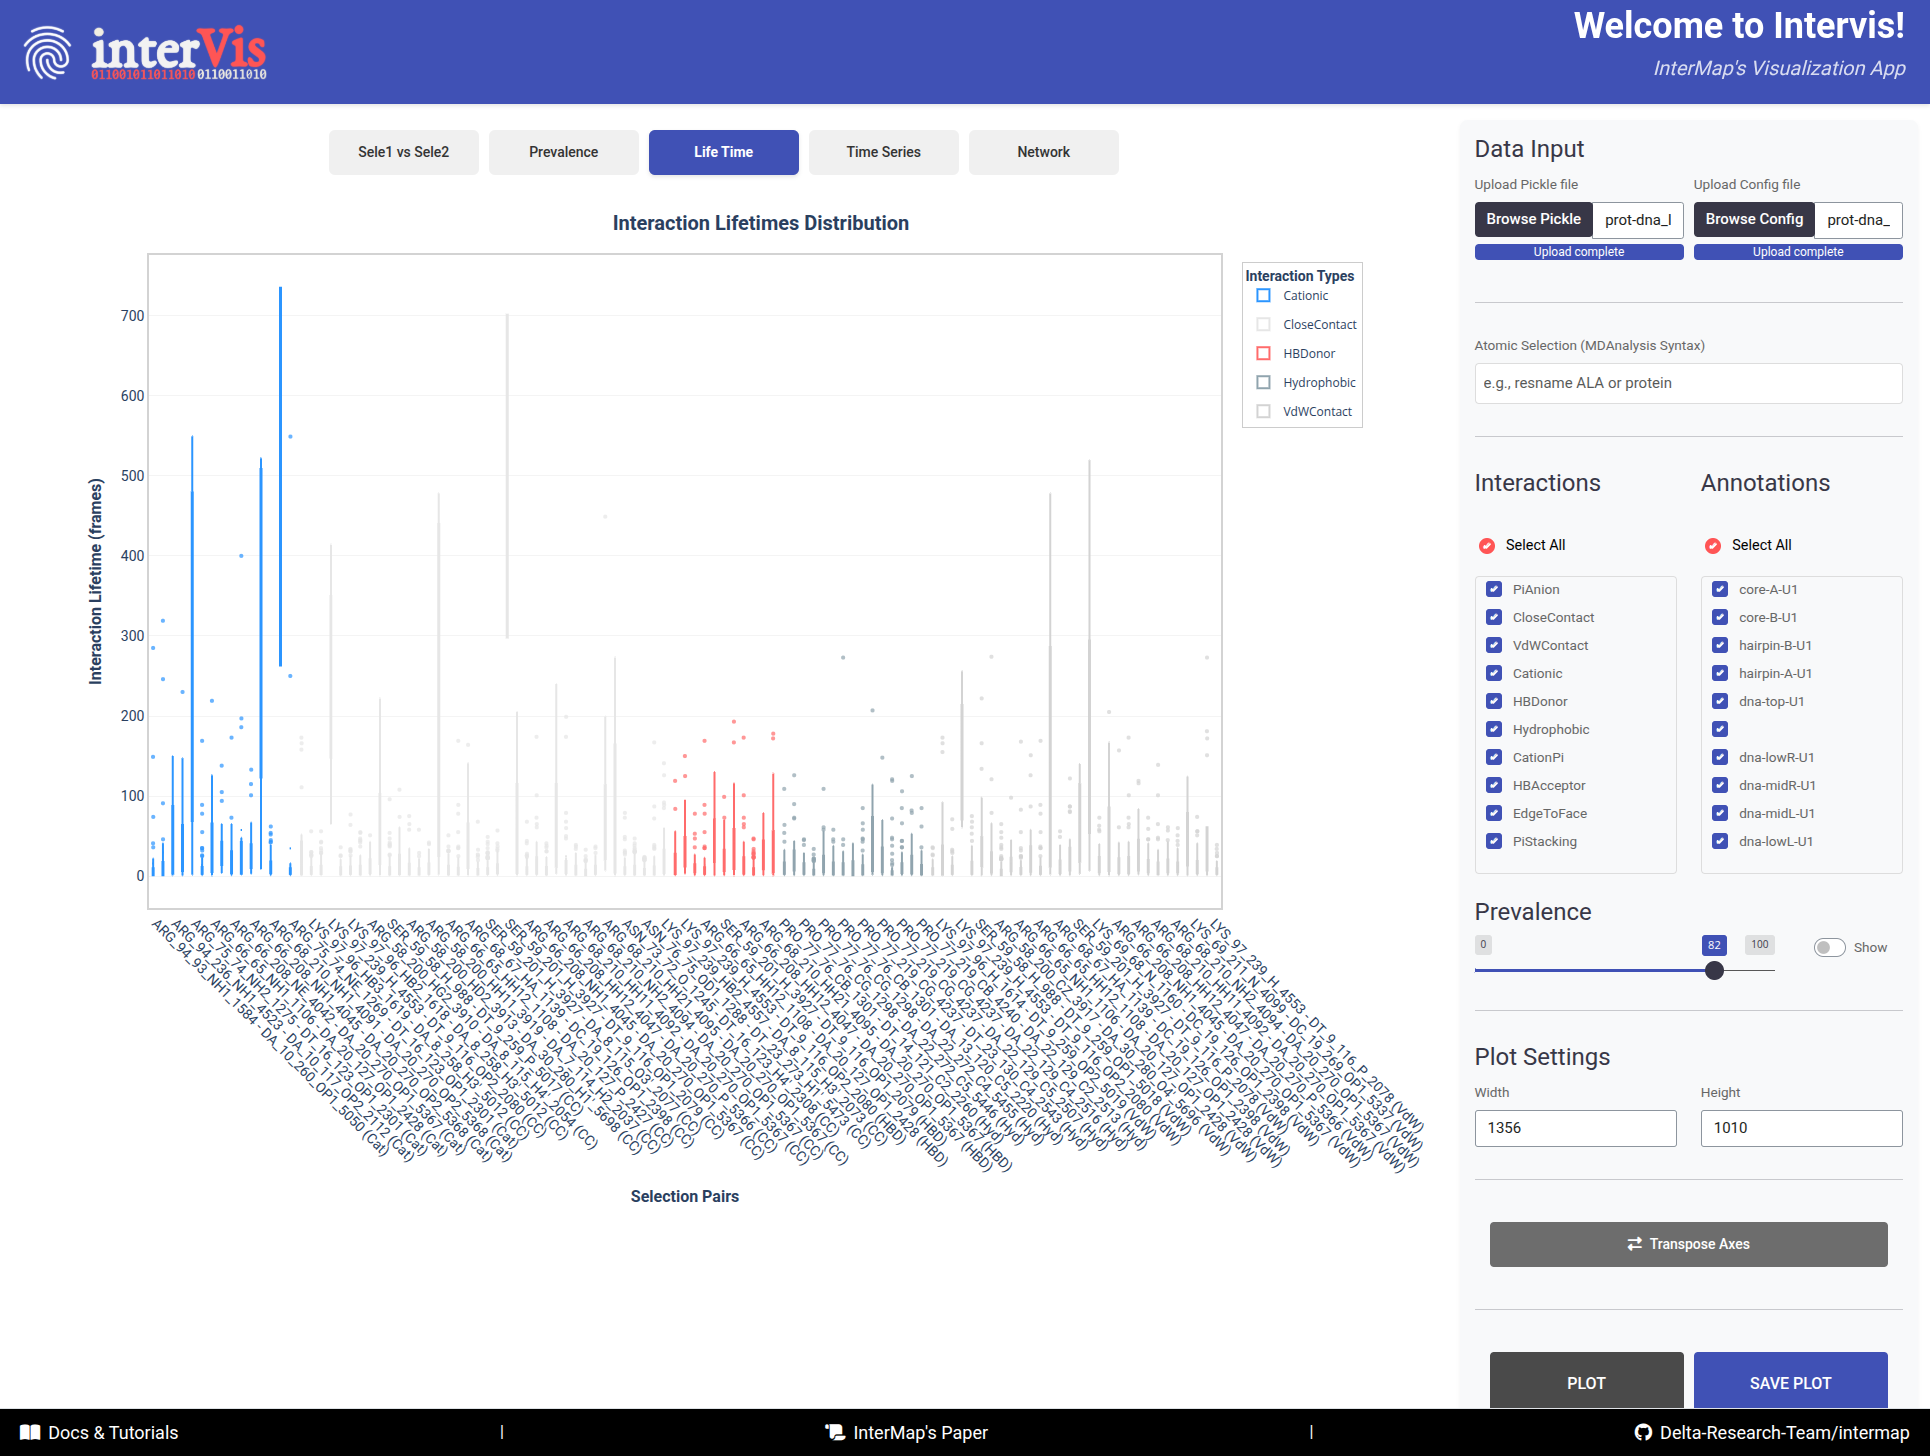
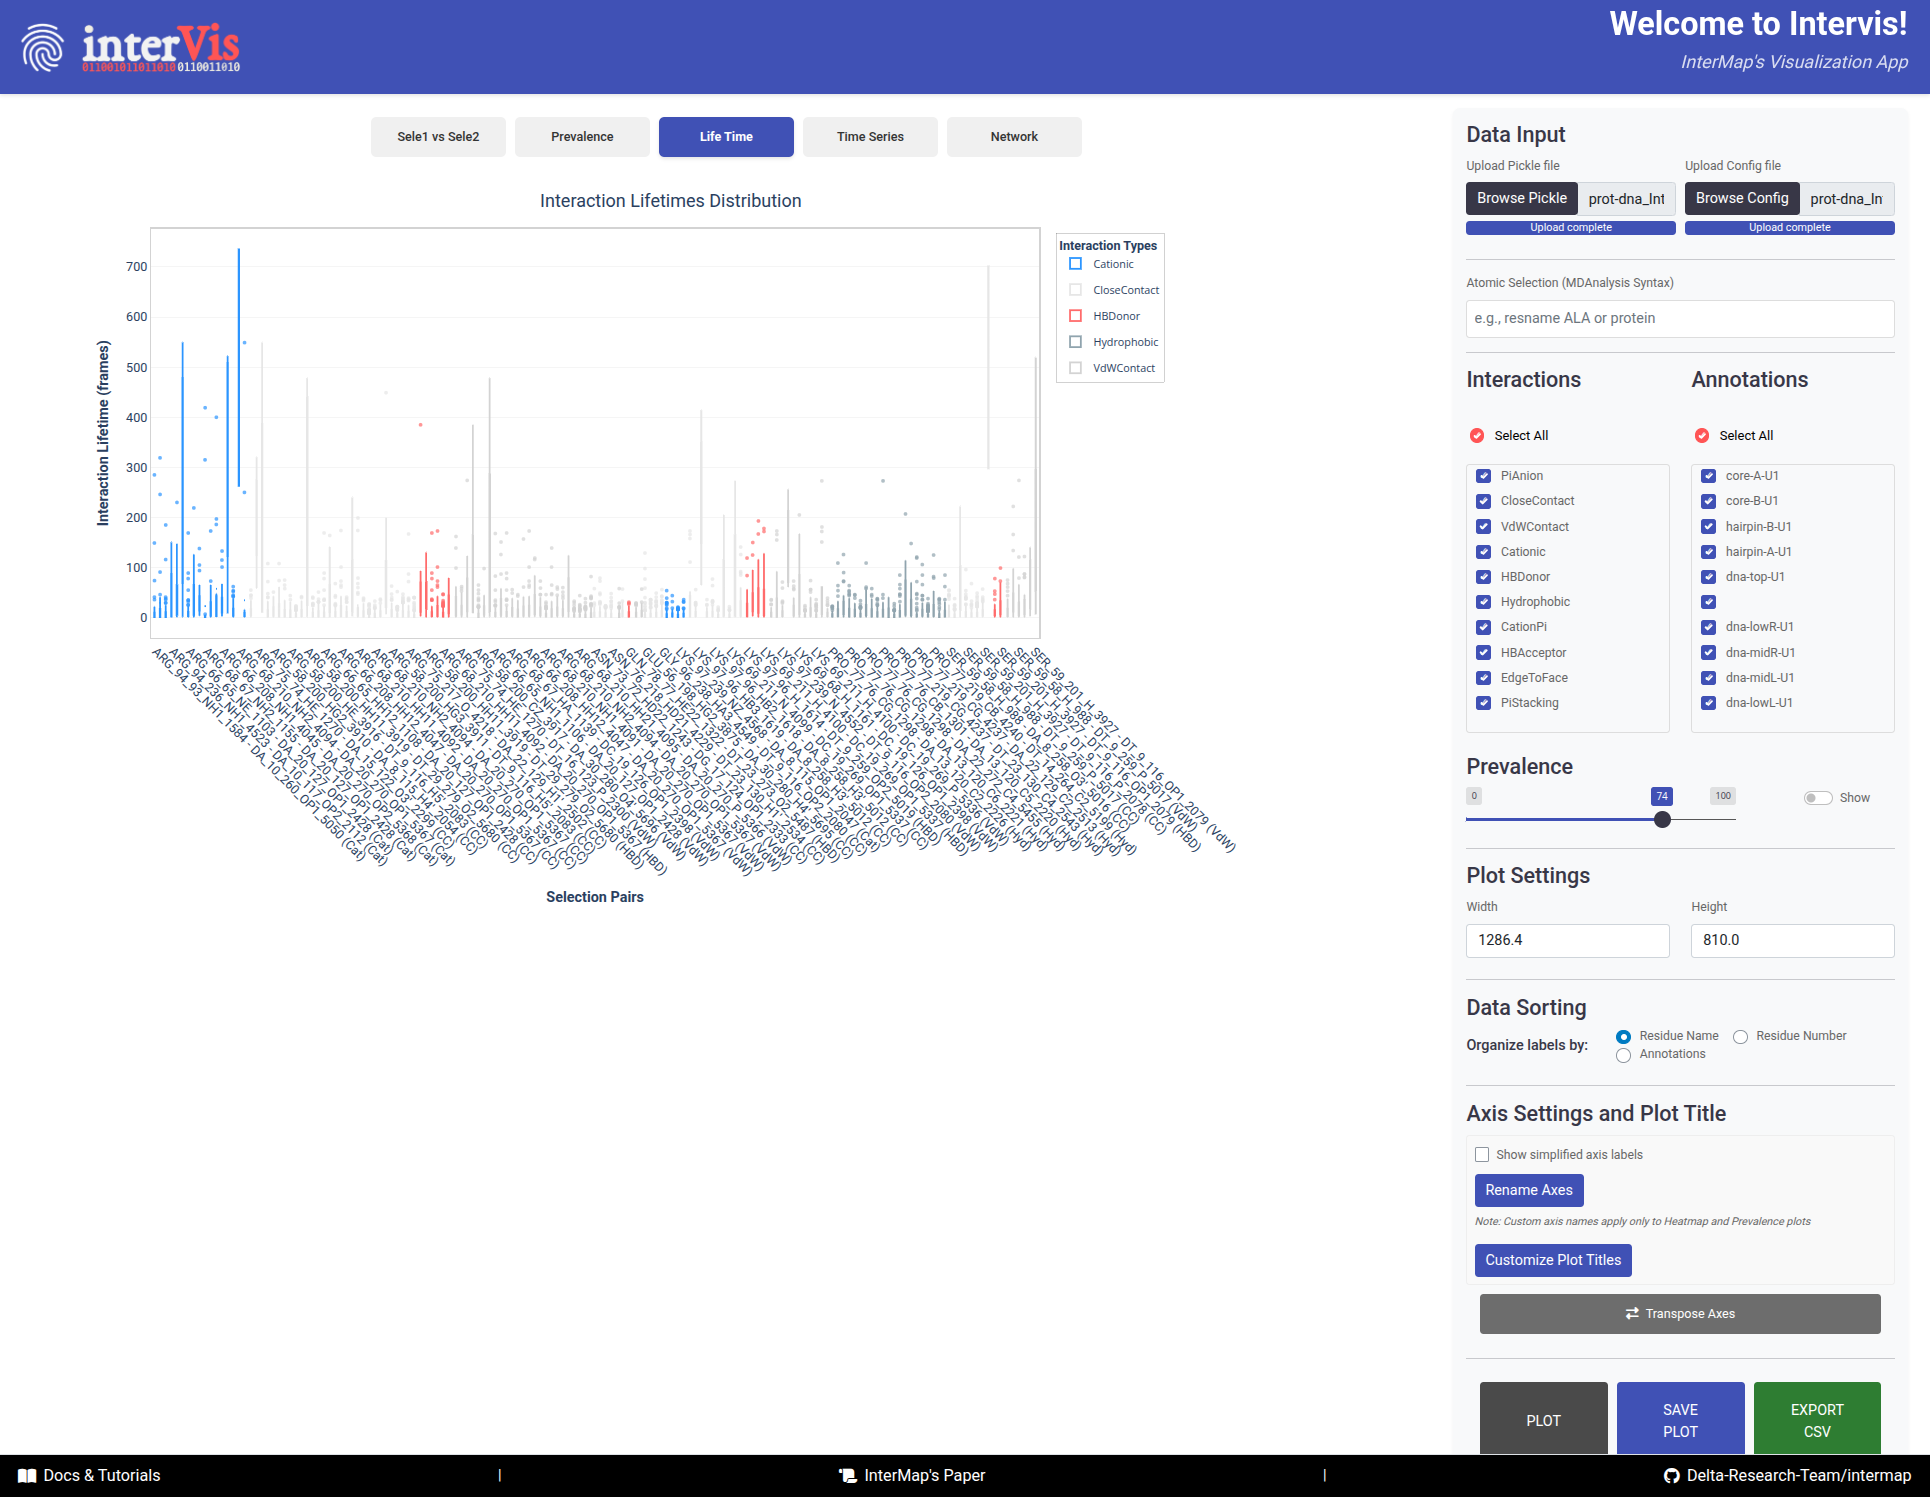
[WP] Fix images in documentation

Changed region(s): [[0.0, 0.0, 1.0, 0.989], [0.6218, 0.1854, 0.715, 0.3091], [0.5285, 0.1545, 0.6218, 0.2473]]

diff --git a/docs/intervis.md b/docs/intervis.md
@@ -1,4 +1,4 @@
-**InterMap** comes with a local, interactive Shiny application named **InterVis**, which allows users to explore the
+``InterMap`` comes with a local, interactive Shiny application named ``InterVis``, which allows users to explore the
 interactions computed by the tool. This user-friendly web interface simplifies the analysis and interpretation of
 molecular interaction data. No internet connection is required to run the app.
 
@@ -15,8 +15,8 @@ This will automatically launch the InterVis server and open your default web bro
 ![Image title](assets/global_panel.png){width="75%"}
 
 /// caption
-InterVis interface is composed of three main areas: the **Control Panel** (right side), the **Visualization Panel** (
-left side), and the **Footer** (bottom bar).
+InterVis interface is composed of three main areas: the ``Control Panel`` (right side), the ``Visualization Panel`` (
+left side), and the ``Footer`` (bottom bar).
 ///
 
 The InterVis interface consists of three main areas:
@@ -80,11 +80,71 @@ Once the files are uploaded, you can configure the visualizations that will rend
 
 ??? note "Prevalence Threshold"
 
-    When the files are loaded, InterVis automatically assigns a default prevalence threshold of **30%**. You can adjust this value to filter out interactions based on their prevalence (0–100%).
+    When the files are loaded, InterVis automatically assigns a default prevalence threshold of ``30%``. You can adjust this value to filter out interactions based on their prevalence (0–100%).
 
     - The ``Show`` option will allow you to show/hide numeric values on plots.
 
-## 4. Supported Visualizations
+
+## 4. Plot Settings and Customization
+
+InterVis provides several advanced configuration options to customize your visualizations:
+
+??? note "Plot Dimensions"
+
+    You can customize the size of your plots to fit your screen or presentation needs:
+    
+    - ``Width``: Set the plot width in pixels (default: automatically adjusted to your screen)
+    - ``Height``: Set the plot height in pixels (default: automatically adjusted to your screen)
+    
+    These settings apply to all visualization tabs and help optimize the viewing experience for different screen sizes or export requirements.
+
+??? note "Data Sorting"
+
+    Control how labels are organized in your visualizations through the ``Organize labels by`` option:
+    
+    - ``Residue Name``: Sort alphabetically by residue type (ALA, ARG, ASP, etc.)
+    - ``Residue Number``: Sort numerically by residue number
+    - ``Annotations``: Sort by custom annotations defined in your configuration file
+    
+    This feature helps you identify patterns more easily by organizing data in the most meaningful way for your analysis.
+
+??? note "Axis Settings and Plot Titles"
+
+    Customize axis labels and plot titles for publication-ready figures:
+
+    ### Simplify Axis Labels
+    
+    - Enable this checkbox to show simplified axis labels without detailed atom/residue information
+    - Useful for creating cleaner visualizations for presentations
+    
+    ### Rename Axes
+    
+    1. Click the ``Rename Axes`` button to reveal custom axis input fields
+    2. Enter your desired names for X-Axis and Y-Axis titles
+    3. Click ``Apply`` to update the axes
+    
+    !!! info "Scope"
+        Custom axis names apply only to Heatmap and Prevalence plots
+    
+    ### Customize Plot Titles
+    
+    1. Click the ``Customize Plot Titles`` button to reveal title customization options
+    2. You can customize titles for all five visualization types:
+        - ``Heatmap Plot`` (default: "Interaction Heatmap")
+        - ``Prevalence Plot`` (default: "Interaction Prevalence Analysis")
+        - ``Lifetime Plot`` (default: "Interaction Lifetimes Distribution")
+        - ``Time Series Plot`` (default: "Interactions Over Time")
+        - ``Network Plot`` (default: "Interaction Network")
+    3. Enter your desired titles and click ``Apply``
+    
+    ### Transpose Axes
+    
+    - Click the ``Transpose Axes`` button to swap X and Y axes in the Heatmap view
+    - The button highlights when transpose is active
+    - Useful for alternate viewing perspectives or when one selection has many more elements than the other
+
+
+## 5. Supported Visualizations
 
 ??? note "**Sele1 vs Sele2**"
 
@@ -93,22 +153,19 @@ Once the files are uploaded, you can configure the visualizations that will rend
     ![Image title](assets/Tab_1.png){width="100%"}
 
     /// caption
-    The **Sele1 vs Sele2** tab provides an overview of all interaction pairs between two selections.
+    The ``Sele1 vs Sele2`` tab provides an overview of all interaction pairs between two selections.
     ///
 
-
-
-    **`Interpretation Guide:`**
-
-    - **X-axis**: Atoms/Residues of Selection 1 
+    - X-axis``: Atoms/Residues of Selection 1 
  
-    - **Y-axis**: Atoms/Residues of Selection 2
+    - ``Y-axis``: Atoms/Residues of Selection 2
 
-    - **Cells**
+    - ``Cells``
       - *Color:* Interaction type (following an interaction priority system — if multiple interactions occur, the most relevant is shown).
       - *Number:* Interaction prevalence (shown upon activation of the ``Show`` option adjacent to the ``Prevalence`` filter).
  
-    - **Hover**
+     **Hover**
+
       - *Sel1:* Atom/Residue of the first selection
       - *Note1:* Annotation corresponding to Sel 1
       - *Sel2:* Atom/Residue of the second selection
@@ -116,7 +173,7 @@ Once the files are uploaded, you can configure the visualizations that will rend
       - *Interaction:* Type of interaction
       - *Prevalence:* Percentage of frames with this interaction
 
-    - **Transpose Button** to swap X/Y axes — useful for alternate views
+    - ``Transpose Button`` to swap X/Y axes for alternate views
 
 ??? note "**Interactions Prevalence**"
 
@@ -125,17 +182,15 @@ Once the files are uploaded, you can configure the visualizations that will rend
     ![Image title](assets/Tab_2.png){width="100%"}
 
     /// caption
-    The **Prevalence** tab visualizes the prevalence of interactions as a bar chart, with Selection 1 in the top panel and Selection 2 in the bottom panel.
+    The ``Prevalence`` tab visualizes the prevalence of interactions as a bar chart, with Selection 1 in the top panel and Selection 2 in the bottom panel.
     ///
 
 
-    **`Interpretation Guide:`**
+    - ``X-axis``: Components from Selection 1/Selection 2
 
-    - **X-axis**: Components from Selection 1/Selection 2
+    - ``Y-axis``: Prevalence (%)
 
-    - **Y-axis**: Prevalence (%)
-
-    - **Bars**:
+    - ``Bars``:
         - *Color:* Interaction type
         - *Height:* Prevalence percentage
 
@@ -156,27 +211,24 @@ Once the files are uploaded, you can configure the visualizations that will rend
     The Life Time tab presents violin plots displaying the distribution of interaction lifetimes across the trajectory.
     ///
 
+    - ``X-axis``: Interaction pairs (Selection 1 – Selection 2)
 
-    **`Interpretation Guide:`**
+    - ``Y-axis``: Duration of interactions (in frames)
 
-    - **X-axis**: Interaction pairs (Selection 1 – Selection 2)
-
-    - **Y-axis**: Duration of interactions (in frames)
-
-    - **Violin Shape**: Distribution of durations
+    - ``Violin Shape``: Distribution of durations
         - Wider sections indicate more frequent durations
         - Narrower sections indicate less frequent durations
     
-    - **Width**: Relative frequency of interaction durations
+    - ``Width``: Relative frequency of interaction durations
 
-    - **Color**: Interaction type
+    - ``Color``: Interaction type
 
     - **Hover**:
-    - Pair: Selection 1 – Selection 2
-    - Interaction: Type of interaction
-    - Prevalence: Percentage of frames with this interaction
-    - Lifetime: Number of frames the interaction was present
-    - Frame Range: Start and end frames where the interaction was observed
+      - Pair: Selection 1 – Selection 2
+      - Interaction: Type of interaction
+      - Prevalence: Percentage of frames with this interaction
+      - Lifetime: Number of frames the interaction was present
+      - Frame Range: Start and end frames where the interaction was observed
 
 ??? note "**Time Series**"
 
@@ -185,47 +237,146 @@ Once the files are uploaded, you can configure the visualizations that will rend
     ![Image title](assets/Tab_4.png){width="100%"}
 
     /// caption
-    The **Time Series** tab displays a time series plot showing the presence of interactions over time.
+    The ``Time Series`` tab displays a time series plot showing the presence of interactions over time.
     ///
 
+    1. ``Main Panel``
+        - ``X-axis``: Frame number
+        - ``Y-axis``: Interaction pairs
+        - ``Dots``: Interaction presence
 
-    **`Interpretation Guide:`**
-
-    1. **Main Panel**
-        - **X-axis**: Frame number
-        - **Y-axis**: Interaction pairs
-        - **Dots**: Interaction presence
-
-    2. **Top Histogram**
+    2. ``Top Histogram``
         - Number of interactions per frame
 
-    3. **Side Histogram**
+    3. ``Side Histogram``
         - Prevalence of interactions across frames
 
 
     **Hover**:
+
     - Frame: Frame number
     - Selection Pair: Interacting residues
     - Interaction: Type of interaction
     - Prevalence: Percentage of frames with this interaction
+
 
 ??? note "**Network**"
 
     This tab visualizes the interaction network between two selections, where nodes represent components and edges represent interactions.
 
     ![Image title](assets/Tab_5.png){width="100%"}
+    
     /// caption
-    The **Network** tab visualizes the interaction network between two selections, where nodes represent components and edges represent interactions.
+    The ``Network`` tab visualizes the interaction network between two selections, where nodes represent components and edges represent interactions.
     ///
 
+    ``Interpretation Guide:``
 
-    **`Interpretation Guide:`**
-
-    - **Nodes**:
+    - ``Nodes``:
         - 🔵 Blue = Selection 1 components
         - 🔴 Red = Selection 2 components
+        - Size = Number of connections (degree)
 
-    - **Links**:
-          - **Color**: Interaction type
-          - **Number**: Prevalence
-          - **Length**: Inversely related to prevalence
+    - ``Links``:
+        - ``Color``: Interaction type
+        - ``Width``: Interaction prevalence
+        - ``Length``: Inversely related to prevalence (stronger interactions appear shorter)
+
+     **Hover**:
+
+        - Node information: Component name, number of connections
+        - Edge information: Interaction type, prevalence percentage
+
+    ### Network Controls Panel
+
+    When you navigate to the ``Network`` tab, an additional control panel automatically appears on the left side of the screen. This panel provides advanced physics and visual customization options for fine-tuning the network layout.
+    
+    /// caption
+    The Network Controls panel appears automatically when viewing the Network tab, offering fine-grained control over the network layout and appearance.
+    ///
+
+    #### Physics Controls
+    
+    Fine-tune the force-directed layout algorithm:
+    
+    - ``Gravitational Constant`` (-500 to 0, default: -200)
+        - Controls the attractive force between nodes
+        - More negative values = stronger attraction
+        - Use lower values (closer to 0) for more spread-out networks
+    
+    - ``Central Gravity`` (0 to 0.1, default: 0.005)
+        - Pulls all nodes toward the center of the visualization
+        - Higher values = tighter, more compact networks
+        - Lower values = more distributed layouts
+    
+    - ``Spring Length`` (50 to 500, default: 200)
+        - Sets the natural resting distance between connected nodes
+        - Larger values = more space between nodes
+        - Smaller values = more compact arrangements
+    
+    - ``Spring Constant`` (0.1 to 2.0, default: 0.5)
+        - Controls the stiffness of connections between nodes
+        - Higher values = stiffer springs, more rigid structure
+        - Lower values = more flexible, fluid layouts
+    
+    - ``Avoid Overlap`` (0 to 1, default: 0.8)
+        - Prevents nodes from overlapping each other
+        - Higher values = stronger repulsion, better separation
+        - Set to 0 to allow overlapping (not recommended)
+
+    #### Node Controls
+    
+    Customize node appearance:
+    
+    - ``Min Node Size`` (10 to 30, default: 20)
+        - Minimum size for nodes with few connections
+        - Ensures small nodes remain visible
+    
+    - ``Max Node Size`` (40 to 100, default: 50)
+        - Maximum size for highly connected hub nodes
+        - Prevents large nodes from dominating the visualization
+
+    #### Edge Controls
+    
+    Customize edge (link) appearance:
+    
+    - ``Min Edge Width`` (1 to 10, default: 5)
+        - Minimum width for edges with low prevalence
+        - Ensures all connections remain visible
+    
+    - ``Max Edge Width`` (10 to 30, default: 15)
+        - Maximum width for edges with high prevalence
+        - Visual emphasis on strong interactions
+
+    #### Simulation Controls
+    
+    Control the physics simulation:
+    
+    - ``Stabilization Iterations`` (100 to 2000, default: 1000)
+        - Number of physics simulation steps before displaying the network
+        - Higher values = more stable final layout (but slower)
+        - Lower values = faster rendering (but may be less stable)
+    
+    - ``Physics Enabled`` (Toggle switch)
+        - ``On``: Physics simulation runs continuously; nodes respond to forces
+        - ``Off``: Disable physics for manual node positioning and static layout
+
+    #### Apply Settings
+    
+    After adjusting any parameters, click the ``Apply Settings`` button to update the network visualization with your new configuration. The network will re-stabilize using the new physics parameters.
+
+    !!! tip "Network Optimization Tips"
+        - ``For large networks``: Reduce ``Stabilization Iterations`` to 200-500 for faster rendering
+        - ``For dense networks``: Increase ``Spring Length`` and reduce ``Central Gravity`` to spread nodes apart
+        - ``For publication figures``: Disable ``Physics Enabled`` after finding a good layout, then manually adjust node positions
+        - ``For exploring dynamics``: Keep ``Physics Enabled`` and adjust forces in real-time to see immediate effects
+        - ``For clearer visualization``: Increase ``Avoid Overlap`` to 1.0 to ensure perfect node separation
+
+
+## 10. Footer Resources
+
+The footer provides quick access to important resources:
+
+- ``Docs & Tutorials``: Complete InterMap documentation and step-by-step tutorials
+- ``InterMap's Paper``: Scientific publication with methodology and validation
+- ``Delta-Research-Team/intermap``: Source code, issue tracker, and latest releases on GitHub
